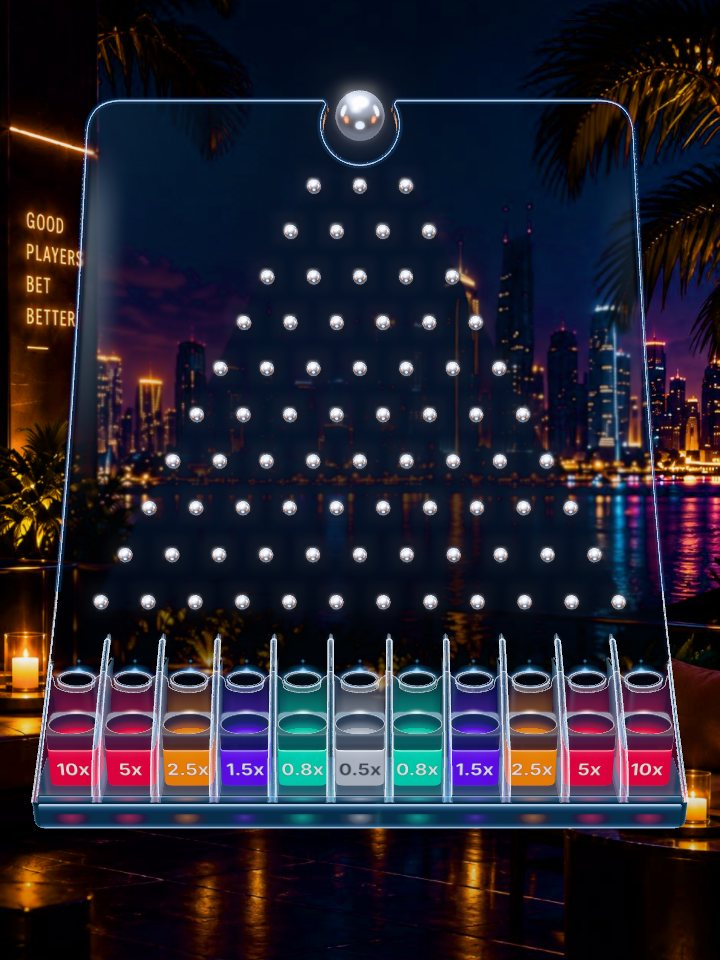
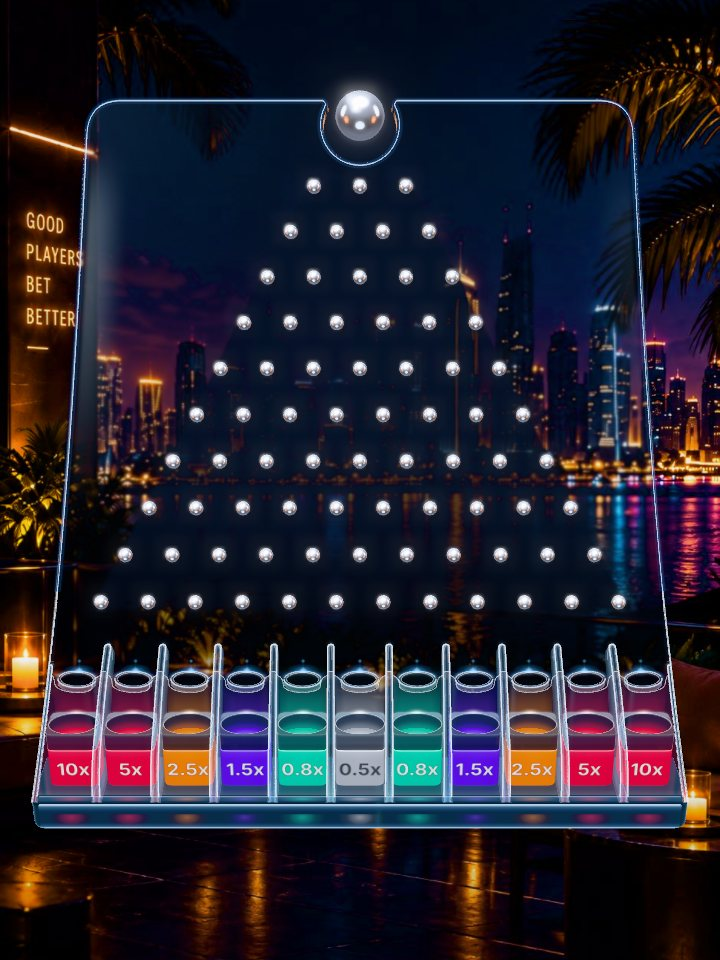
Adjust the Plinko fin and board geometry and refresh the art captures

diff --git a/games/plinko/web/js/board/fins.js b/games/plinko/web/js/board/fins.js
@@ -23,6 +23,7 @@ import {
   sideInset,
   sideX,
   taper,
+  viewHeight,
 } from './geometry.js'
 
 const smooth = (t) => t * t * (3 - 2 * t)
@@ -31,9 +32,23 @@ const FIN_REAR_Z = FACE + 0.02
 // The fin's front face follows this depth: forward at the top, back to the tray floor.
 const frontZ = (y) => FIN_BACK_Z + (FIN_FRONT_Z - FIN_BACK_Z) * smooth(clamp01((y - CUP_TOP + 0.2) / 0.8))
 
-// Full depth back to the pane between compartments; above the shelf the back edge
-// sweeps forward into a shallow blade.
-const rearZ = (y) => FIN_REAR_Z + (frontZ(y) - 0.16 - FIN_REAR_Z) * smooth(clamp01((y - SADDLE_Y + 0.3) / 0.45))
+// From the framed camera a step back reads as SIGHT of a step up, so a back edge
+// CLOSE × (crest − y) / SIGHT behind the face climbs steadily into the crest.
+const SIGHT =
+  (viewHeight(FIN_TOP, FIN_FRONT_Z - 0.01) - viewHeight(FIN_TOP, FIN_FRONT_Z)) /
+  (viewHeight(FIN_TOP + 0.01, FIN_FRONT_Z) - viewHeight(FIN_TOP, FIN_FRONT_Z))
+const CLOSE = 0.8
+
+// Polynomial smooth minimum: min(a, b) with the corner rounded over a width of k.
+const softMin = (a, b, k) => {
+  const h = Math.max(k - Math.abs(a - b), 0) / k
+  return Math.min(a, b) - (h * h * k) / 4
+}
+
+// Full depth back to the pane between compartments; above the chutes the back edge
+// leaves the pane and closes into the crest.
+const rearZ = (y, crestY) =>
+  frontZ(y) - softMin(frontZ(y) - FIN_REAR_Z, (CLOSE * Math.max(0, crestY - y)) / SIGHT, 0.3)
 
 // Raked glass blades between the compartments, and the side plates that carry the
 // outline from the tray up into the pane edge.
@@ -69,7 +84,6 @@ export function buildFins(kit) {
 
     const shift = (points) => points.map((p) => new T.Vector3(p.x + x, p.y, p.z))
     kit.highlight(shift(blade.edge), 0.01, 0.9)
-    kit.highlight(shift(blade.ridge), 0.006, 0.25)
     kit.highlight(shift(blade.back), 0.006, 0.3)
 
     const tip = kit.glowSprite(0xe6f2ff, 0.12, 0.2)
@@ -151,6 +165,8 @@ function bladeGeometry(kit, left, right, top, lean) {
   }
   face.setAttribute('bladeEdge', new T.Float32BufferAttribute(edgeData, 3))
 
+  const crestY = tipY + radius
+  const backZ = (y) => rearZ(Math.min(y, crestY - 1e-4), crestY)
   const spaced = outline.getSpacedPoints(220)
   const tangentAt = (i) => {
     const a = spaced[Math.max(0, i - 1)]
@@ -165,7 +181,7 @@ function bladeGeometry(kit, left, right, top, lean) {
   const wallIndex = []
   spaced.forEach((p, i) => {
     const [tx, ty] = tangentAt(i)
-    for (const z of [rearZ(p.y), frontZ(p.y)]) {
+    for (const z of [backZ(p.y), frontZ(p.y)]) {
       const leanY = (lean(p.y + 0.005, z) - lean(p.y - 0.005, z)) / 0.01
       const leanZ = (lean(p.y, z + 0.005) - lean(p.y, z - 0.005)) / 0.01
       const nx = ty
@@ -186,27 +202,22 @@ function bladeGeometry(kit, left, right, top, lean) {
   walls.setIndex(wallIndex)
 
   // Polished edges: the front outline pushed just outside the face, skipping the foot
-  // and any straight outer wall; the ridge along the top; and the back edge where the
-  // blade sweeps forward out of the compartment wall.
+  // and any straight outer wall, and the back edge from where it leaves the pane up
+  // into the rounded crest.
   const edge = []
   spaced.forEach((p, i) => {
     if (p.y < FLOOR + 0.1 || (Math.abs(p.x) < 1e-3 && p.y < tipY - 1e-3)) return
     const [tx, ty] = tangentAt(i)
     edge.push(new T.Vector3(p.x + ty * 0.01 + lean(p.y, frontZ(p.y)), p.y - tx * 0.01, frontZ(p.y) + 0.01))
   })
-  const crestY = tipY + radius + 0.004
-  const ridge = [
-    new T.Vector3(centreX + lean(crestY, rearZ(crestY)), crestY, rearZ(crestY) + 0.01),
-    new T.Vector3(centreX + lean(crestY, frontZ(crestY)), crestY, frontZ(crestY)),
-  ]
   const back = []
-  for (let i = 0; i <= 24; i++) {
-    const y = SADDLE_Y - 0.3 + ((tipY - SADDLE_Y + 0.3) * i) / 24
-    back.push(new T.Vector3(centreX + lean(y, rearZ(y)), y, rearZ(y) + 0.004))
+  for (let i = 0; i <= 32; i++) {
+    const y = SADDLE_Y - 0.3 + ((crestY - SADDLE_Y + 0.3) * i) / 32
+    back.push(new T.Vector3(centreX + lean(y, backZ(y)), y + 0.004, backZ(y) + 0.004))
   }
   const tip = new T.Vector3(centreX + lean(crestY, frontZ(crestY)), crestY, frontZ(crestY))
 
-  return { face, walls, edge, ridge, back, tip }
+  return { face, walls, edge, back, tip }
 }
 
 // The front face reads as a thick glass blade: light banked against both edges, a thin

diff --git a/games/plinko/web/js/board/geometry.js b/games/plinko/web/js/board/geometry.js
@@ -71,10 +71,10 @@ export const BAY_PITCH = (2 * BAY_HALF_WIDTH) / SLOTS
 
 // Fins are wide at the base and taper on gently curved edges to a round tip; each pair
 // is the [base, tip] half-width of an inner fin or an outer wall.
-export const FIN_RISE = 0.45
+export const FIN_RISE = 0.36
 export const FIN_TOP = FIN_HEIGHT + FIN_RISE
-export const INNER_FIN = [0.05, 0.028]
-export const OUTER_FIN = [0.05, 0.028]
+export const INNER_FIN = [0.05, 0.036]
+export const OUTER_FIN = [0.05, 0.036]
 export const FIN_BACK_Z = TRAY_FRONT_Z - 0.03
 export const FILLET_RADIUS = 0.1
 
@@ -139,7 +139,7 @@ export function bend(y, z) {
 }
 
 const viewDepth = (y, z) => (EYE_Y - y) * Math.sin(PITCH) + (EYE_Z - z) * Math.cos(PITCH)
-const viewHeight = (y, z) =>
+export const viewHeight = (y, z) =>
   ((y - EYE_Y) * Math.cos(PITCH) + (EYE_Z - z) * Math.sin(PITCH)) / viewDepth(y, z)
 
 const [cornerY, cornerZ] = bend(TOP - CORNER_RADIUS, FACE)
